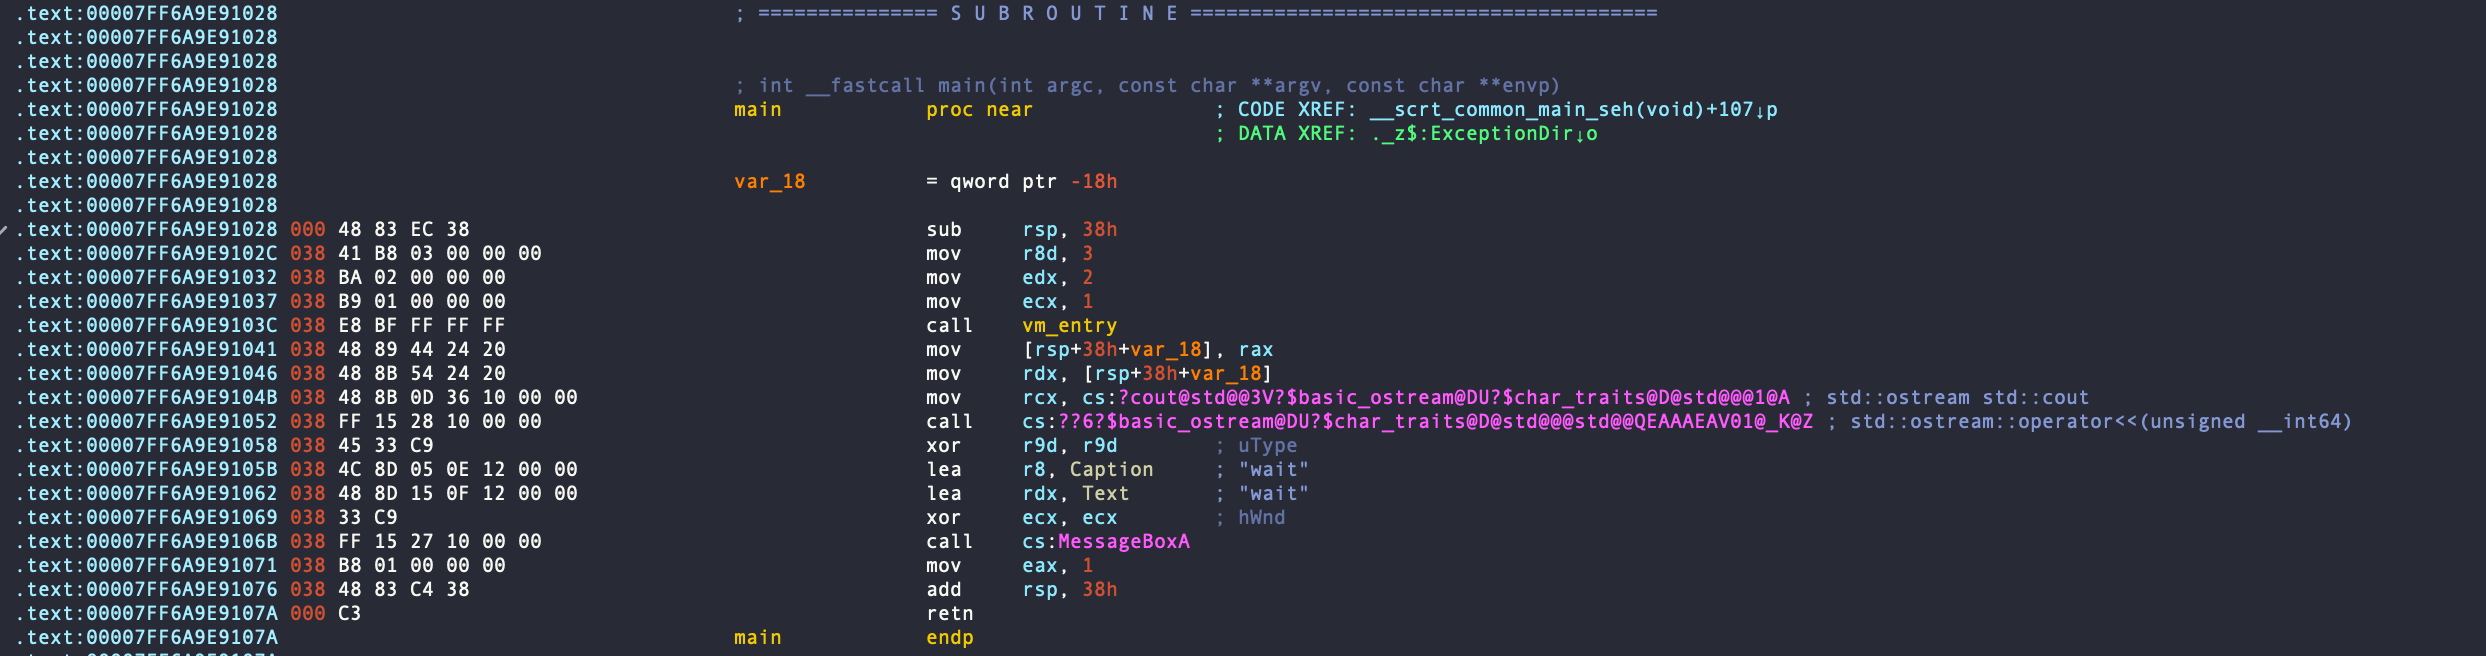
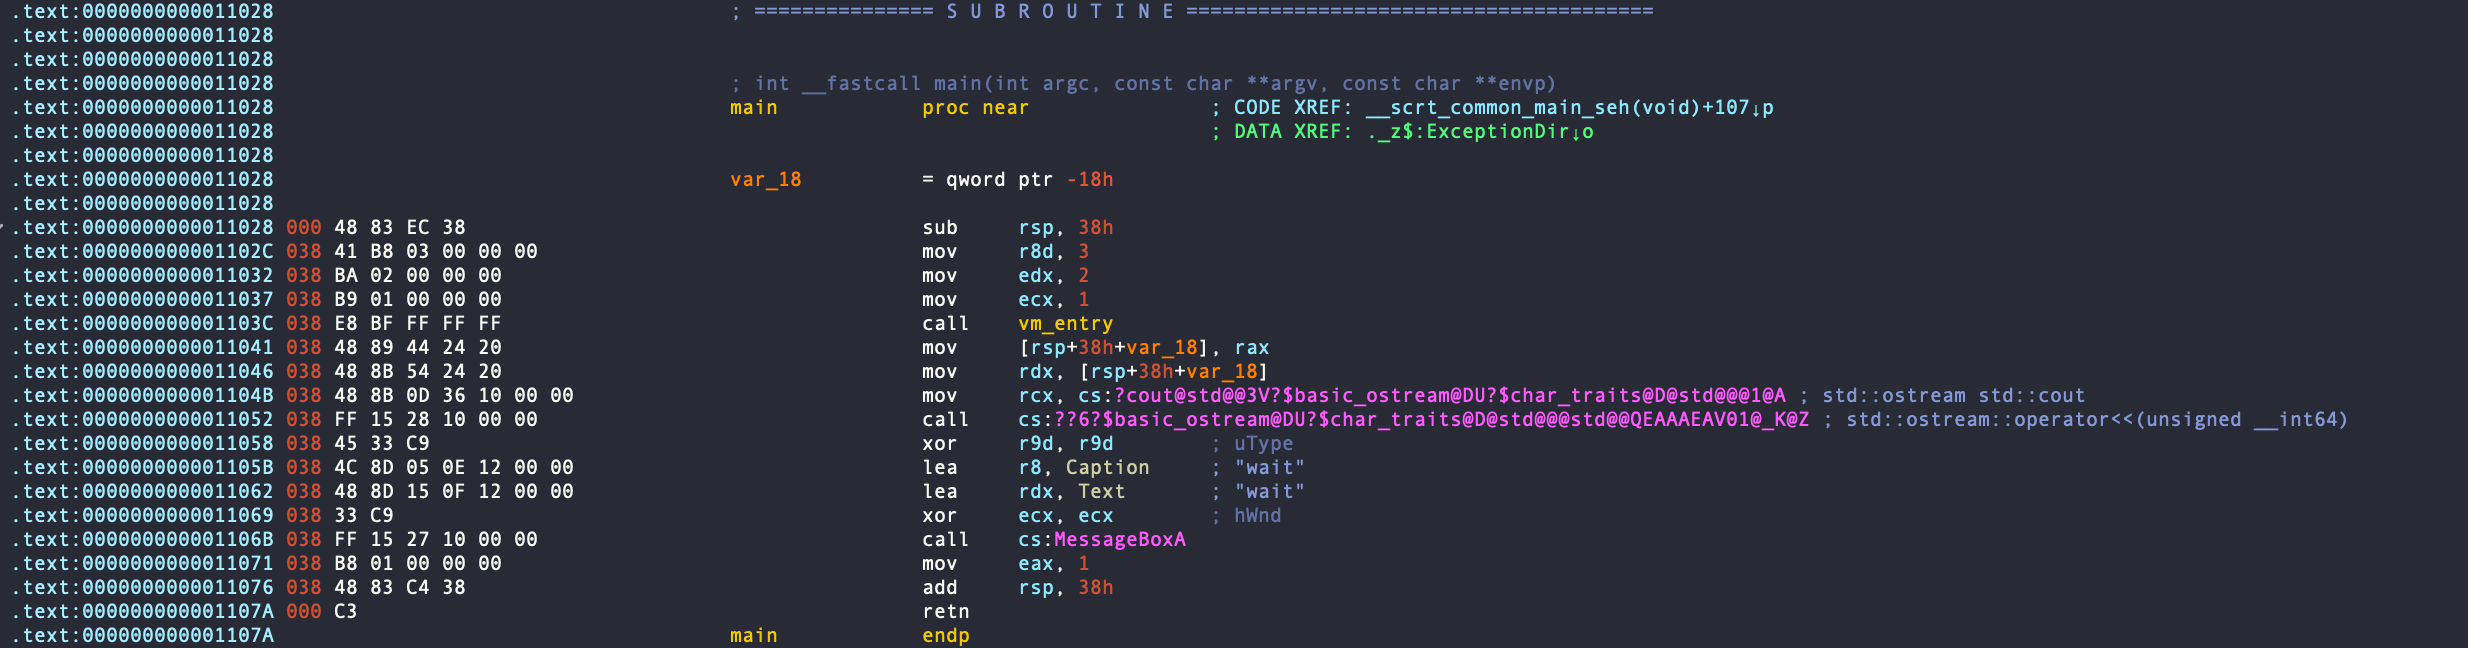
added ASLR disabled images

diff --git a/_drafts/2024-10-11-vmprotect-behavior-research.md b/_drafts/2024-10-11-vmprotect-behavior-research.md
@@ -15,7 +15,7 @@ image:
 Virtualization is one of the most hard-to-break protection techniques employed widely by both legitimate and malicious applications.
 And I'm totally hooked on it because knowing vmprotect is getting paramount in 2024 to reverse engineer softwares with robust security like anti-cheat software.
 
-A couple of weeks ago, a friend of mine gave me a binary virtualized with VMProtect3.8.1 with 100% complexity + 10vm.
+A couple of weeks ago, a friend of mine gave me a binary virtualized with VMProtect3.8.1 with 100% complexity + 10vms.
 Although I'm an absolute newbie in this field, I always wanted to know about virtualization technique I finally decided to tackle on it and write a diary about how I get wrecked! lol
 
 In this blog post I'll write about what I saw and felt during analysis, it's neither something covers entire VMProtect's feature nor in-depth, but more like initial brief research. Cuz that'd be beyond my wheelhouse.
@@ -63,7 +63,21 @@ Moreover my friend told me where the vm begins, people call it vm_entry, so so t
 But still, the binary is obfuscated with 100% complexity, it could be more and more complicated than what I expect of course.
 Don't worry it's gonna be totally fine, cuz we're here to get wrecked!
 
-## [+] vm_entry
+## [+] Disable ASLR
+
+I noticed that the binary was built with ASLR[^aslr] on, which makes ma unpleasant.
+So I first turned it off.
+
+It's pretty easy, open it with your favorite hex editor and navigate to `NTHeader` -> `OptionalHeader` -> `DllCharacteristics` -> `IMAGE_DLLCHARACTERISTICS_DYNAMIC_BASE` and set it to 0.
+
+Then go to Windows security in windows settings and in `App & browser control` tab, turn off `Randomize memory allocations (Bottom up ASLR)`.
+
+That way you can turn off the ASLR and fix the image base across reboot I believe.
+
+> also setting `HKEY_LOCAL_MACHINE\SYSTEM\CurrentControlSet\Control\Session Manager\kernel\MitigationOptions`'s third significant bit to 0 does the same thing in registry.
+{: .prompt-tip }
+
+## [+] Find vm entry indication
 
 Right off the bat, look at the main function.
 
@@ -98,7 +112,7 @@ The function has a branch in the middle of it however it turned out to be a part
 I commented in the picture why it'd always takes same branch.
 
 ![vm_entry2](vm_entry2.png)
-_where pushes registers in vm entry_
+_red: opaque predicates, green: register push_
 
 ## [+] Locate VIP initialization
 
@@ -114,7 +128,7 @@ It felt like it took ages to find it, but I finally discovered! In the image bel
 0x7FF5A9EC114D + 0x100000000 = 0x7FF6A9EC114D
 ```
 
-![bytecode_ptr](bytecode_ptr.png)
+![bytecode ptr](bytecode_ptr.png)
 _virtual instruction pointer is being decrypted_
 
 And following is the where the ptr points to.
@@ -124,13 +138,17 @@ _this is what vmprotect custom bytecodes look like_
 
 To ensure it's correct one, I kept going and look for instructions that uses `R10`. Then I found the part where it retrieve a byte from VIP address-7 and moving VIP forward. 
 
-![bytecode ptr ref](bytecode_ptr_ref.png)
+![vip ref](vip_ref.png)
 _getting a byte from vip and updating pointer_
 
 vmp stores opcode and oprand in bytecode field. So when it wants to execute `add eax, 5`, retrieve each opcode and operand just like I showed you, and execute it.
 
 > Note that VIP looks technically going backward just like stack does, but apparently it varies depending on the vm you're dealing with. Some vms actually go forward and others go backward.
 {: .prompt-tip }
+
+## [+] Virtual stack initialization
+
+![virtual stack](virtual_stack.png)
 
 ## [+] Deadstore removal plugin
 
@@ -205,5 +223,6 @@ After everything I've been through in this article, I still feel VMProtect is to
 ## Footnotes
 
 [^bin2bin]: **bin2bin**: a type of obfuscation software. stands for binary to binary. There's another type linker level obfuscation according to [es3n1n's Blog](https://blog.es3n1n.eu/posts/obfuscator-pt-1/).
+[^aslr]: **ASLR**: Address Space Layout Randomization. When it is enabled, the binary will be loaded at random location each time which means you have to rebase the program in IDA everytime open it with x64dbg.
 [^opaque_predicates]: **Opaque predicates**: a type of obfuscation techniques which generates a seemingly legit branches that is actually a garbage branching taking you the same branch every time. 
 [^llvm_ir]: **LLVM IR**: LLVM's intermediate representation.
